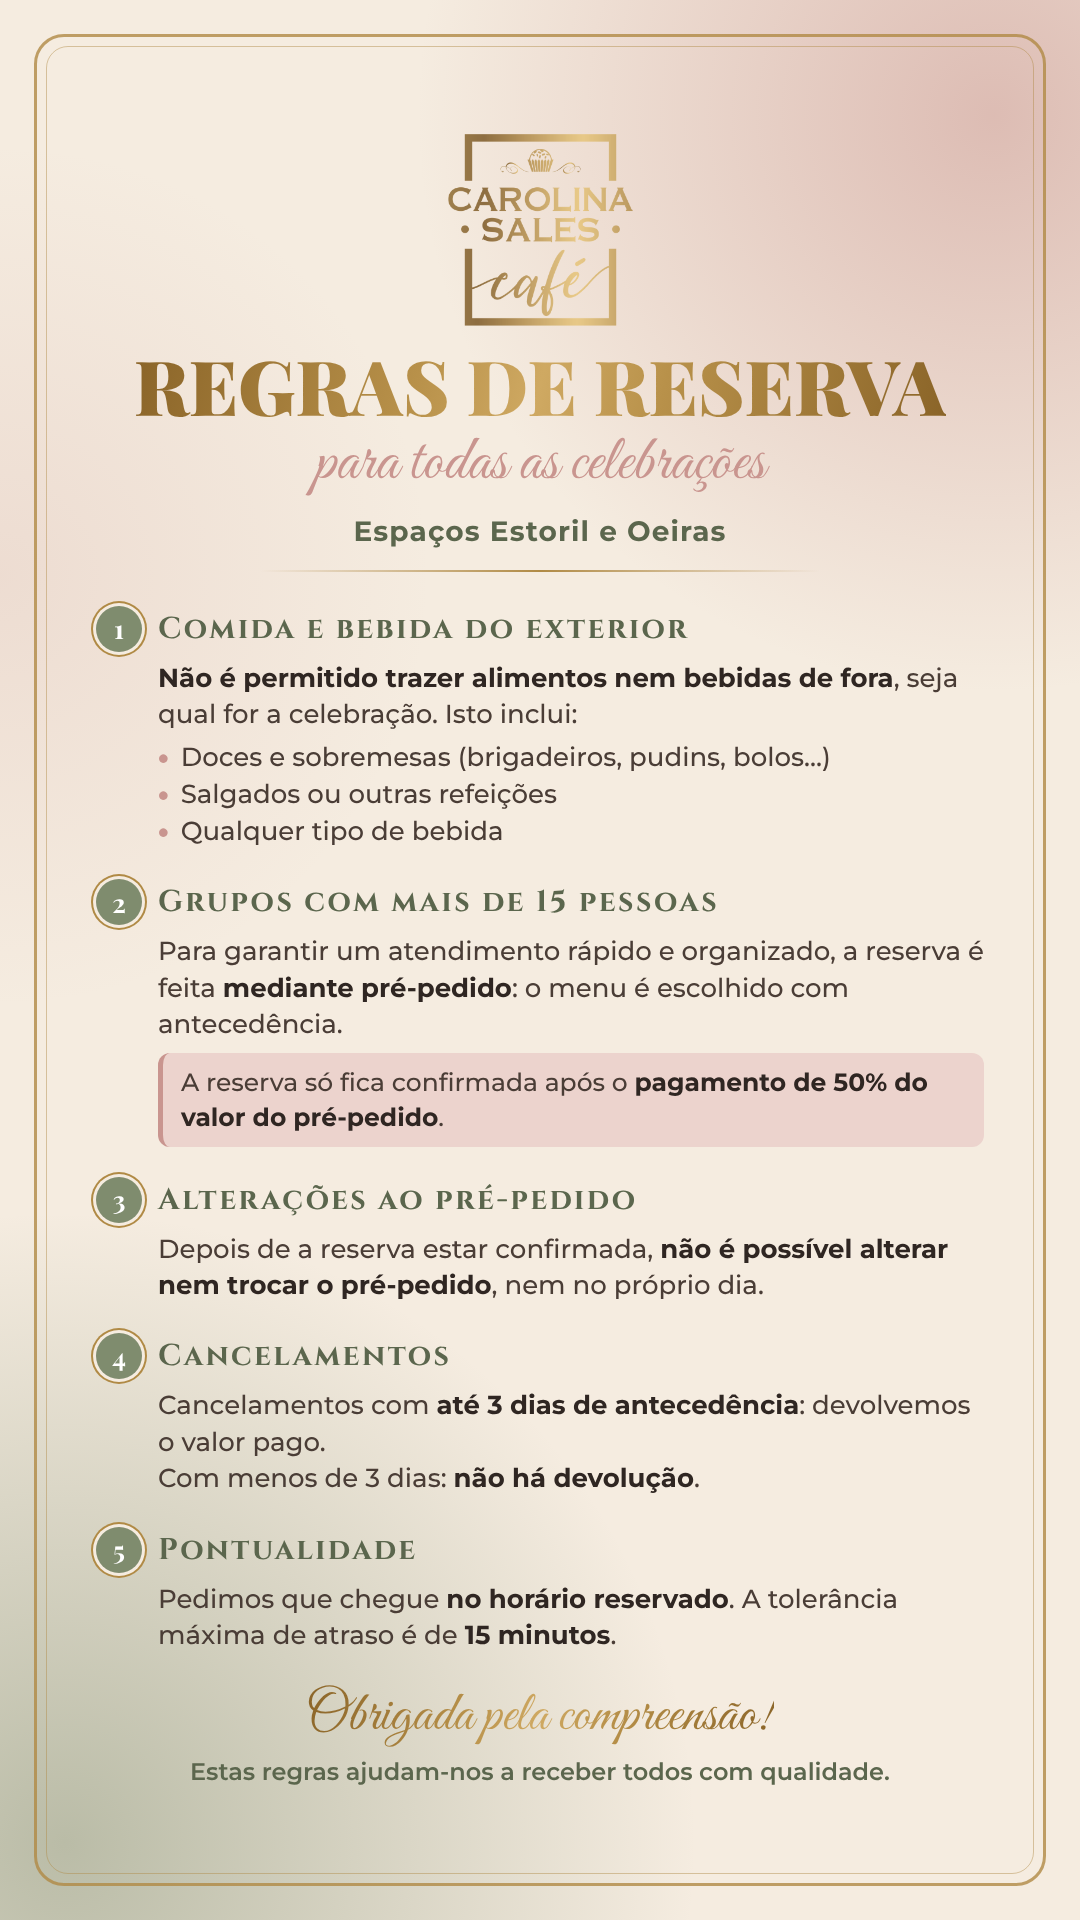
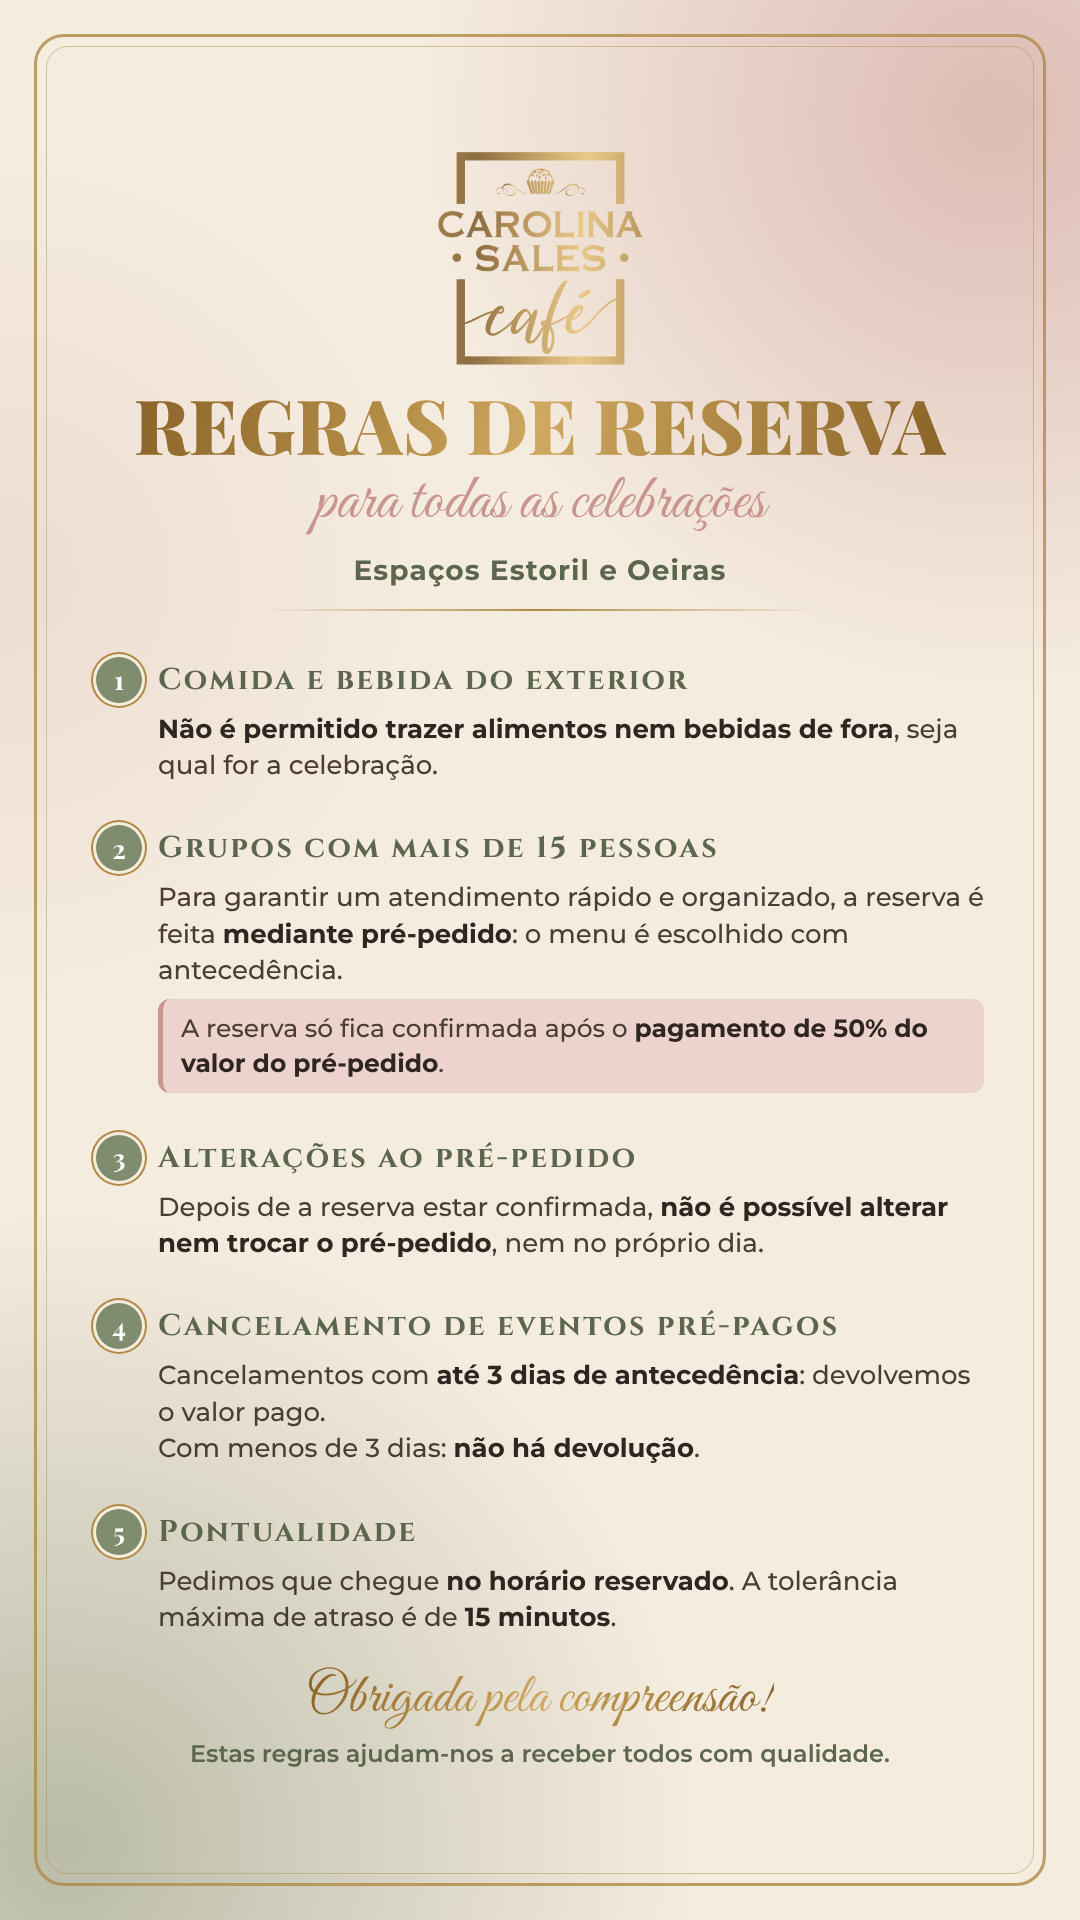
Simplify food rule and rename prepaid event cancellation
Claude-Session: https://claude.ai/code/session_012MqLGRJpCyxpKQDvwKC6dA

Changed region(s): [[0.0611, 0.0625, 0.9167, 0.9375], [0.8556, 0.3438, 0.8861, 0.4062]]

diff --git a/regras-reserva-gerais/regras.html b/regras-reserva-gerais/regras.html
@@ -9,12 +9,12 @@ body{width:1080px;height:1920px;overflow:hidden;font-family:Mont;color:var(--txt
 .frame{position:absolute;inset:34px;border:3px solid var(--ouro);border-radius:30px;opacity:.8}
 .frame2{position:absolute;inset:46px;border:1.5px solid rgba(176,138,69,.45);border-radius:22px}
 .wrap{position:relative;height:1920px;padding:0 96px;display:flex;flex-direction:column;align-items:center;justify-content:center;text-align:center}
-.logo{width:185px}
+.logo{width:205px}
 h1{font-family:Play;font-weight:900;font-size:76px;line-height:1.02;margin-top:20px}
 .sub{font-family:Vibes;font-size:64px;color:var(--rosa);margin-top:0}
 .info{font-size:28px;font-weight:700;margin-top:10px;color:var(--verde-d);letter-spacing:.04em}
 .div{width:560px;height:2px;background:linear-gradient(90deg,transparent,var(--ouro),transparent);margin:22px 0 4px}
-.sec{width:100%;text-align:left;margin-top:30px}
+.sec{width:100%;text-align:left;margin-top:42px}
 .st{display:flex;align-items:center;gap:16px;font-family:Cinzel;font-weight:700;font-size:30px;letter-spacing:.08em;color:var(--verde-d)}
 .n{flex:none;width:46px;height:46px;border-radius:50%;display:flex;align-items:center;justify-content:center;font-family:Play;font-size:26px;font-weight:700;color:#fff;background:var(--verde);box-shadow:0 0 0 3px var(--bege),0 0 0 5px var(--ouro);letter-spacing:0}
 .tx{font-size:26px;line-height:1.4;margin:8px 0 0 62px;font-weight:500}
@@ -35,8 +35,7 @@ h1{font-family:Play;font-weight:900;font-size:76px;line-height:1.02;margin-top:2
  <div class="div"></div>
 
  <div class="sec"><div class="st"><span class="n">1</span>Comida e bebida do exterior</div>
-  <div class="tx"><b>Não é permitido trazer alimentos nem bebidas de fora</b>, seja qual for a celebração. Isto inclui:</div>
-  <div class="list"><div>Doces e sobremesas (brigadeiros, pudins, bolos…)</div><div>Salgados ou outras refeições</div><div>Qualquer tipo de bebida</div></div></div>
+  <div class="tx"><b>Não é permitido trazer alimentos nem bebidas de fora</b>, seja qual for a celebração.</div></div>
 
  <div class="sec"><div class="st"><span class="n">2</span>Grupos com mais de 15 pessoas</div>
   <div class="tx">Para garantir um atendimento rápido e organizado, a reserva é feita <b>mediante pré-pedido</b>: o menu é escolhido com antecedência.</div>
@@ -45,7 +44,7 @@ h1{font-family:Play;font-weight:900;font-size:76px;line-height:1.02;margin-top:2
  <div class="sec"><div class="st"><span class="n">3</span>Alterações ao pré-pedido</div>
   <div class="tx">Depois de a reserva estar confirmada, <b>não é possível alterar nem trocar o pré-pedido</b>, nem no próprio dia.</div></div>
 
- <div class="sec"><div class="st"><span class="n">4</span>Cancelamentos</div>
+ <div class="sec"><div class="st"><span class="n">4</span>Cancelamento de eventos pré-pagos</div>
   <div class="tx">Cancelamentos com <b>até 3 dias de antecedência</b>: devolvemos o valor pago.<br>Com menos de 3 dias: <b>não há devolução</b>.</div></div>
 
  <div class="sec"><div class="st"><span class="n">5</span>Pontualidade</div>
